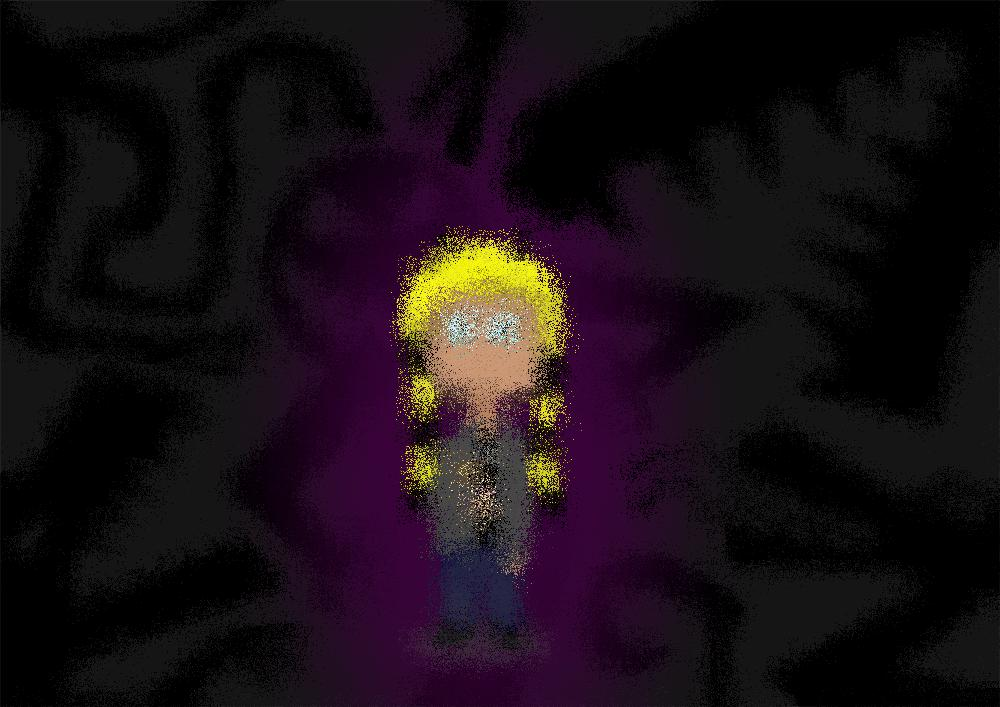
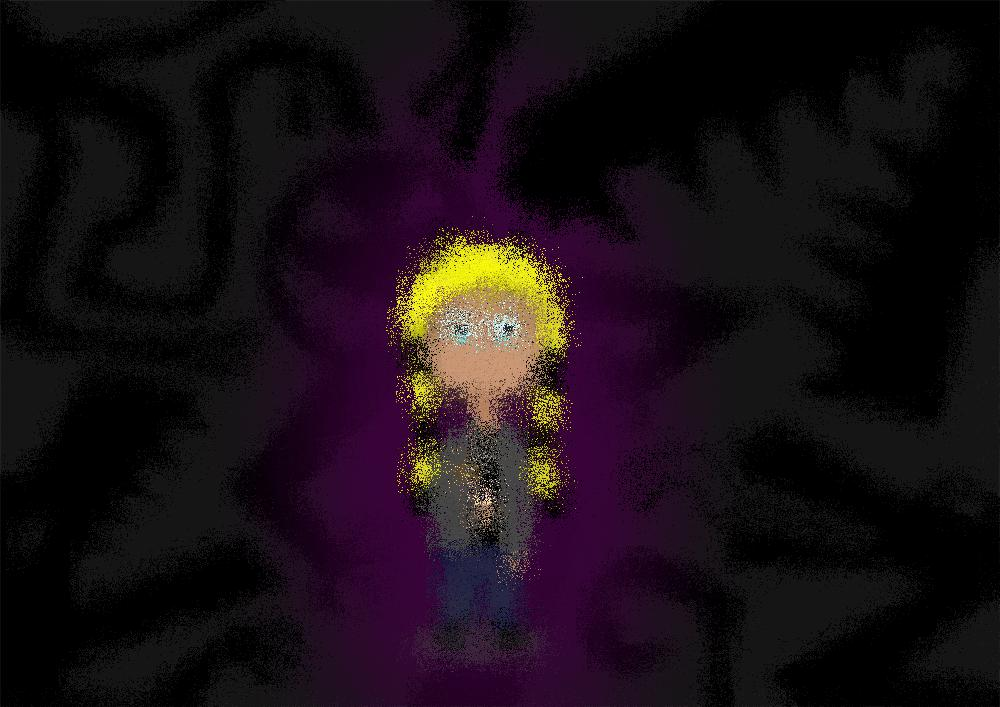
Finished implementing tile effect
Added method for tiling images and updated posterise method. Tile effect
can now tile any number of differently coloured posterised images.

Changed region(s): [[0.372, 0.2801, 0.589, 0.8402], [0.434, 0.8713, 0.527, 0.9335], [0.589, 0.3112, 0.62, 0.3423]]

diff --git a/Appropriation Art Exhibit/exhibit.py b/Appropriation Art Exhibit/exhibit.py
@@ -33,12 +33,16 @@ def show_gallery():
     input_dir = "source-images"
     output_dir = "output-images"
 
-    file = "glasses.jpg"
-    color = (100, 0, 100)
-    painting = Painting(file)
-    tile_effect = TileEffect(color, 3)
-    tile_effect.color_posterise(painting)
-    painting.show()
+    file = "alf.png"
+    colors = [(150, 0, 150),
+              (150, 150, 0),
+              (0, 150, 0),
+              (0, 150, 150)]
+    dog_painting = Painting(os.path.join(input_dir, file))
+    tile_effect = TileEffect(colors, 6, 2)
+    tile_effect.color_tile(dog_painting)
+    dog_painting.show()
+    dog_painting.save(os.path.join(output_dir, file))
 
     file = "hug.png"
     hug_painting = Painting(os.path.join(input_dir, file))
@@ -179,6 +183,14 @@ class Painting():
     def save(self, path):
         """Save the image in the location specified by path (path is a string)"""
         self.img.save(path)
+
+    def paste(self, img, box):
+        self.img.paste(img, box)
+
+    def resize(self, size):
+        resized_img = self.img.resize(size)
+        new_painting = Painting(resized_img)
+        return new_painting
 
     def set_pixel(self, coordinates, color):
         """Set pixel at coordinates to color passed in as tuple"""
@@ -362,43 +374,74 @@ class ThreeColorEffect():
 
 
 class TileEffect:
-    def __init__(self, color, levels):
+    def __init__(self, colors, levels, size):
         """Initialise the color the posterisation will be based on,
         and the level of posterisation
         """
-        self.color = color
+        self.colors = colors
         self.levels = levels
+        self.size = size
+
+    def color_tile(self, painting):
+        paintings = self.color_posterise(painting)
+        new_painting = self.tile_images(paintings)
+        painting.img = new_painting.img
 
     def color_posterise(self, painting):
-        target_color = Color(self.color)
-        for x in range(painting.width):
-            for y in range(painting.height):
-                current_coordinate = x, y
-                current_pixel = painting.pixels[current_coordinate]
-                current_color = Color(current_pixel)
-                lum_step = 255.0 / self.levels
-                difference = 255 / self.levels
+        paintings = []
+        for color in self.colors:
+            new_painting = painting.copy()
+            target_color = Color(color)
+            for x in range(painting.width):
+                for y in range(painting.height):
+                    current_coordinate = x, y
+                    current_pixel = new_painting.pixels[current_coordinate]
+                    current_color = Color(current_pixel)
+                    lum_step = 255.0 / self.levels
+                    difference = 255 / self.levels
 
-                if current_color.luminance <= lum_step:
-                    new_color = target_color.get_color()
-                    painting.set_pixel(current_coordinate, new_color)
-                else:
-                    lum = lum_step
-                    next_lum = lum + lum_step
-                    iterations = 1
+                    if current_color.luminance <= lum_step:
+                        new_color = target_color.get_color()
+                        new_painting.set_pixel(current_coordinate, new_color)
+                    else:
+                        lum = lum_step
+                        next_lum = lum + lum_step
+                        iterations = 1
 
-                    while lum < 255:
-                        if lum < current_color.luminance <= next_lum:
-                            target_color.set_color(target_color + (difference * iterations))
-                            new_color = target_color.get_color()
-                            painting.set_pixel(current_coordinate, new_color)
-                            break
-                        else:
-                            lum = next_lum
-                            next_lum = lum + lum_step
-                            iterations += 1
+                        while lum < 255:
+                            if lum < current_color.luminance <= next_lum:
+                                target_color.set_color(target_color + (difference * iterations))
+                                new_color = target_color.get_color()
+                                new_painting.set_pixel(current_coordinate, new_color)
+                                break
+                            else:
+                                lum = next_lum
+                                next_lum = lum + lum_step
+                                iterations += 1
+                    target_color.set_color(color)
+            paintings.append(new_painting)
+        return paintings
 
-                target_color.set_color(self.color)
+    def get_tile_size(self, painting):
+        tile_width = painting.width / self.size
+        tile_height = painting.height / self.size
+        return (tile_width, tile_height)
 
+    def tile_images(self, paintings):
+        index = 0
+        current_painting = paintings[index]
+        tile_size = self.get_tile_size(current_painting)
+        canvas_size = current_painting.width, current_painting.height
+        canvas = Painting(Image.new(current_painting.mode, canvas_size))
+        tile = current_painting.resize(tile_size)
+
+        for x in range(0, canvas.width, tile.width):
+            for y in range(0, canvas.height, tile.height):
+                coordinates = x, y
+                canvas.paste(tile.img, coordinates)
+                index += 1
+                current_painting = paintings[index % len(paintings)]
+                tile = current_painting.resize(tile_size)
+        return canvas
 
 show_gallery()
